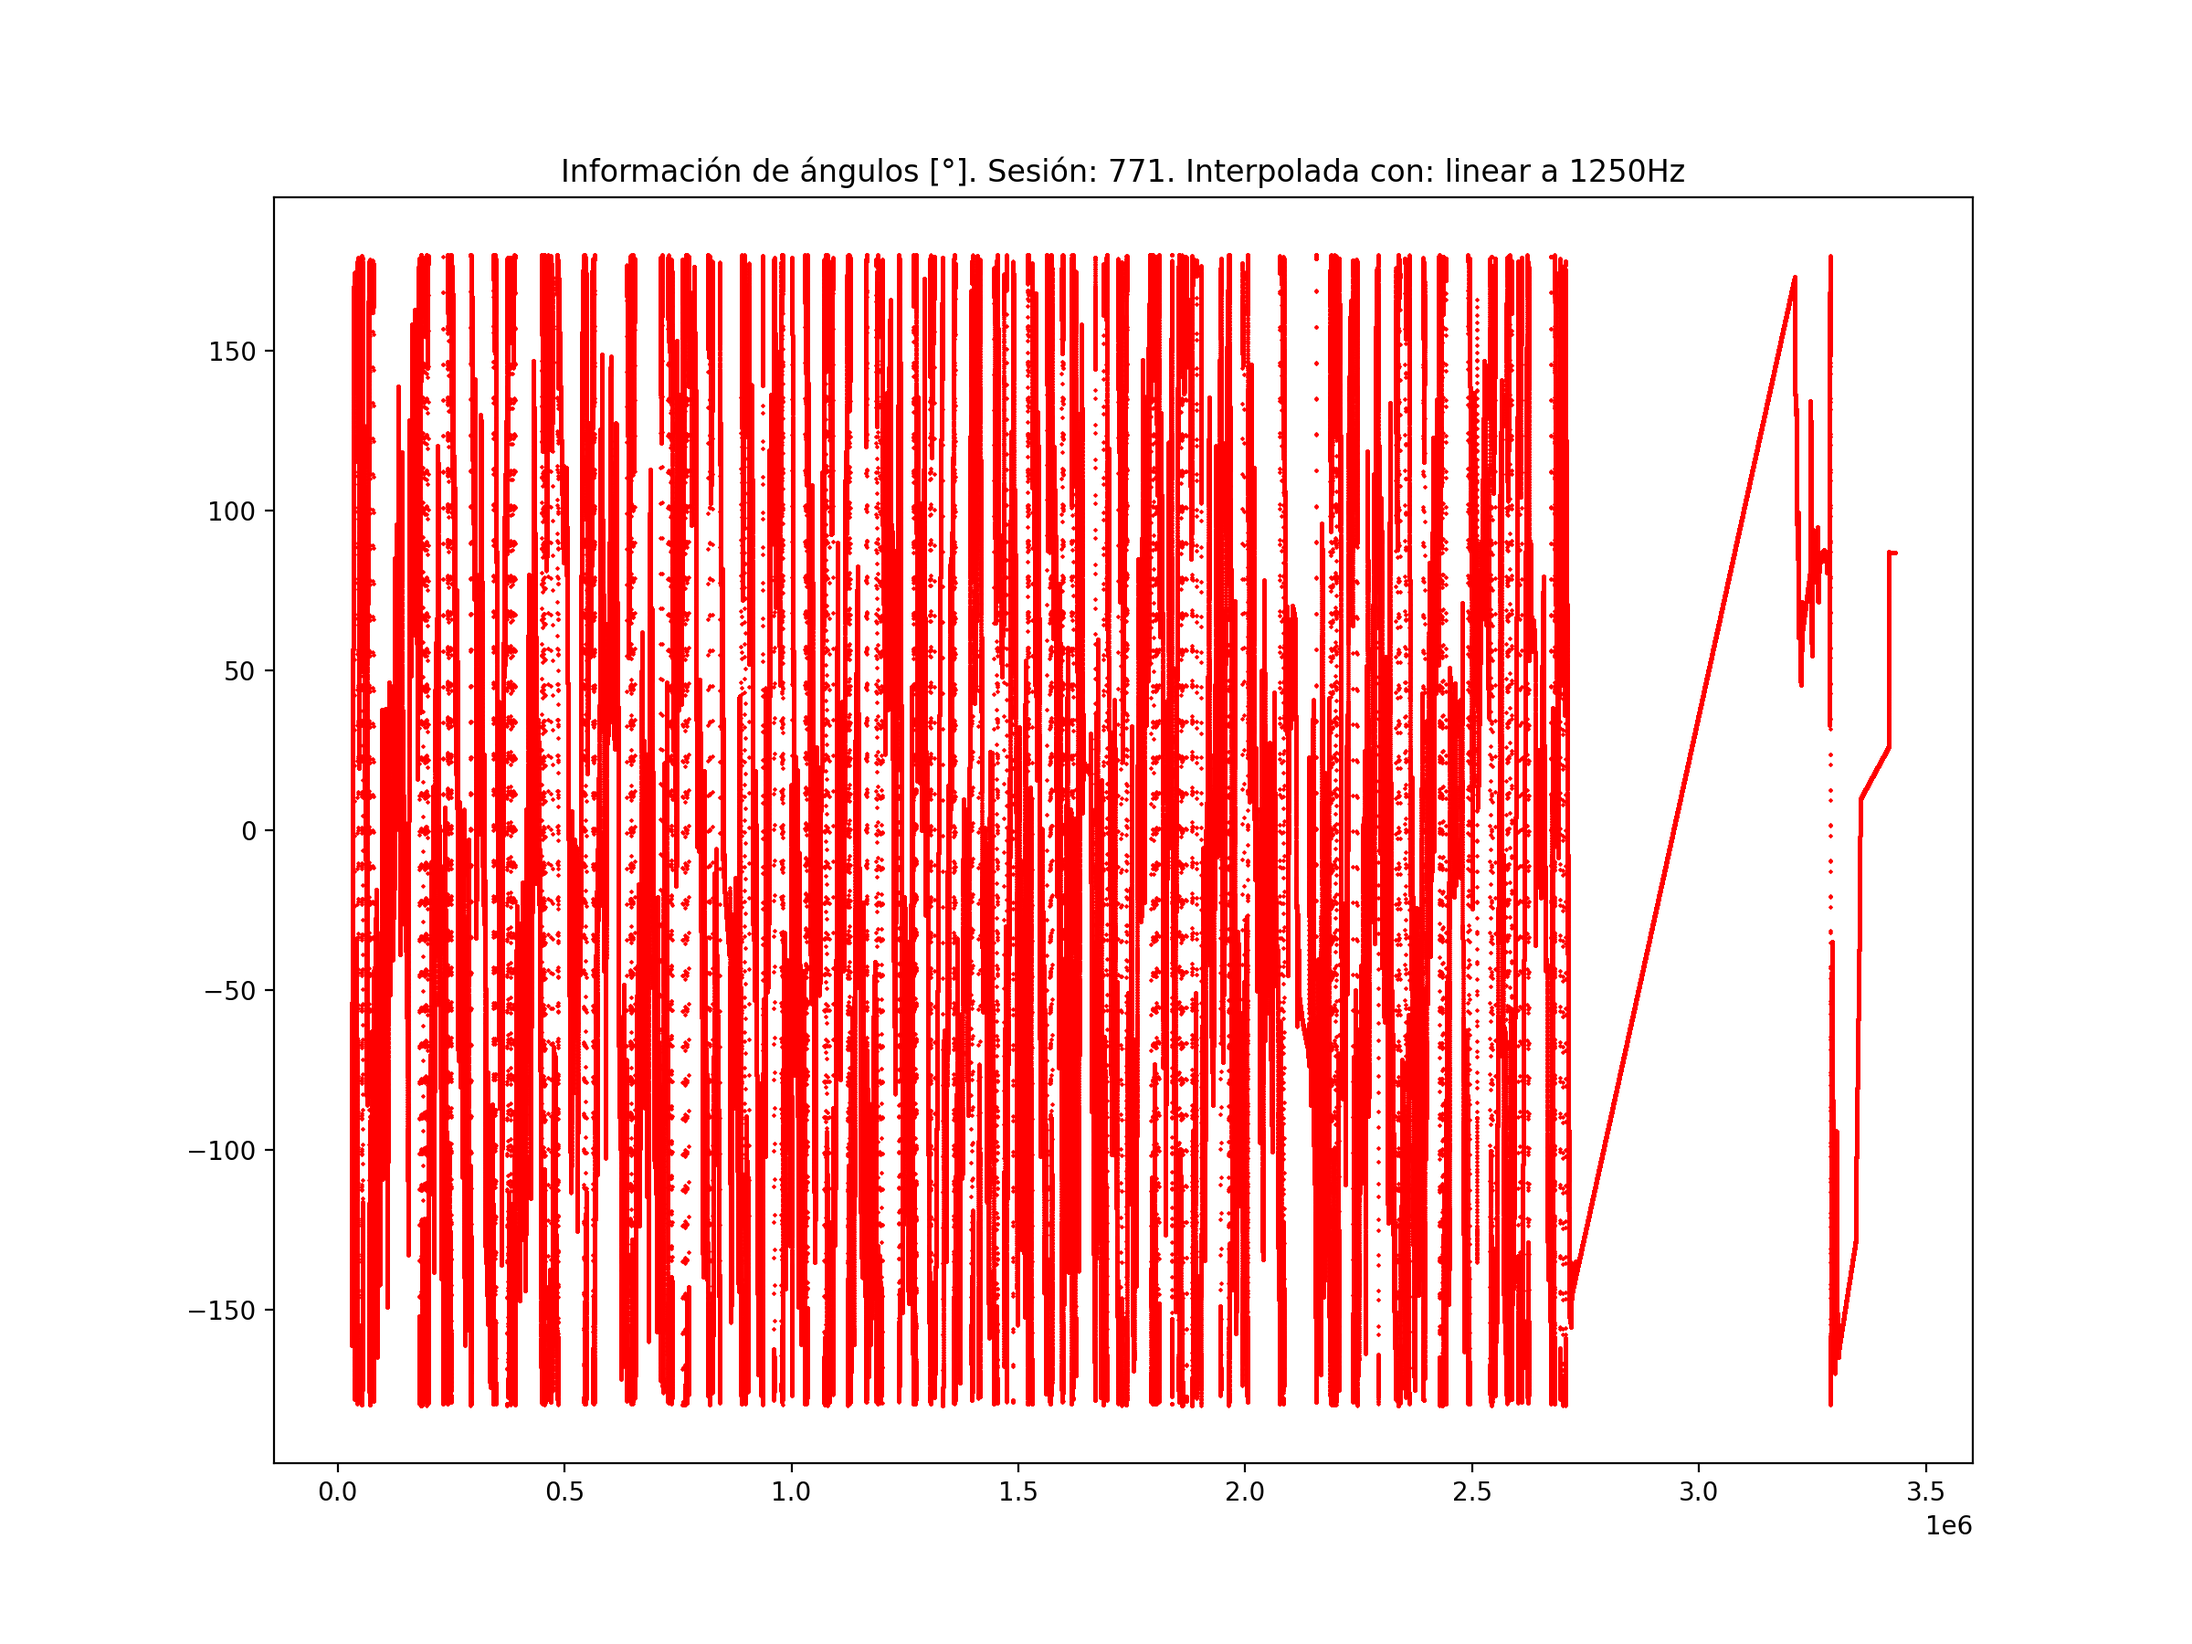
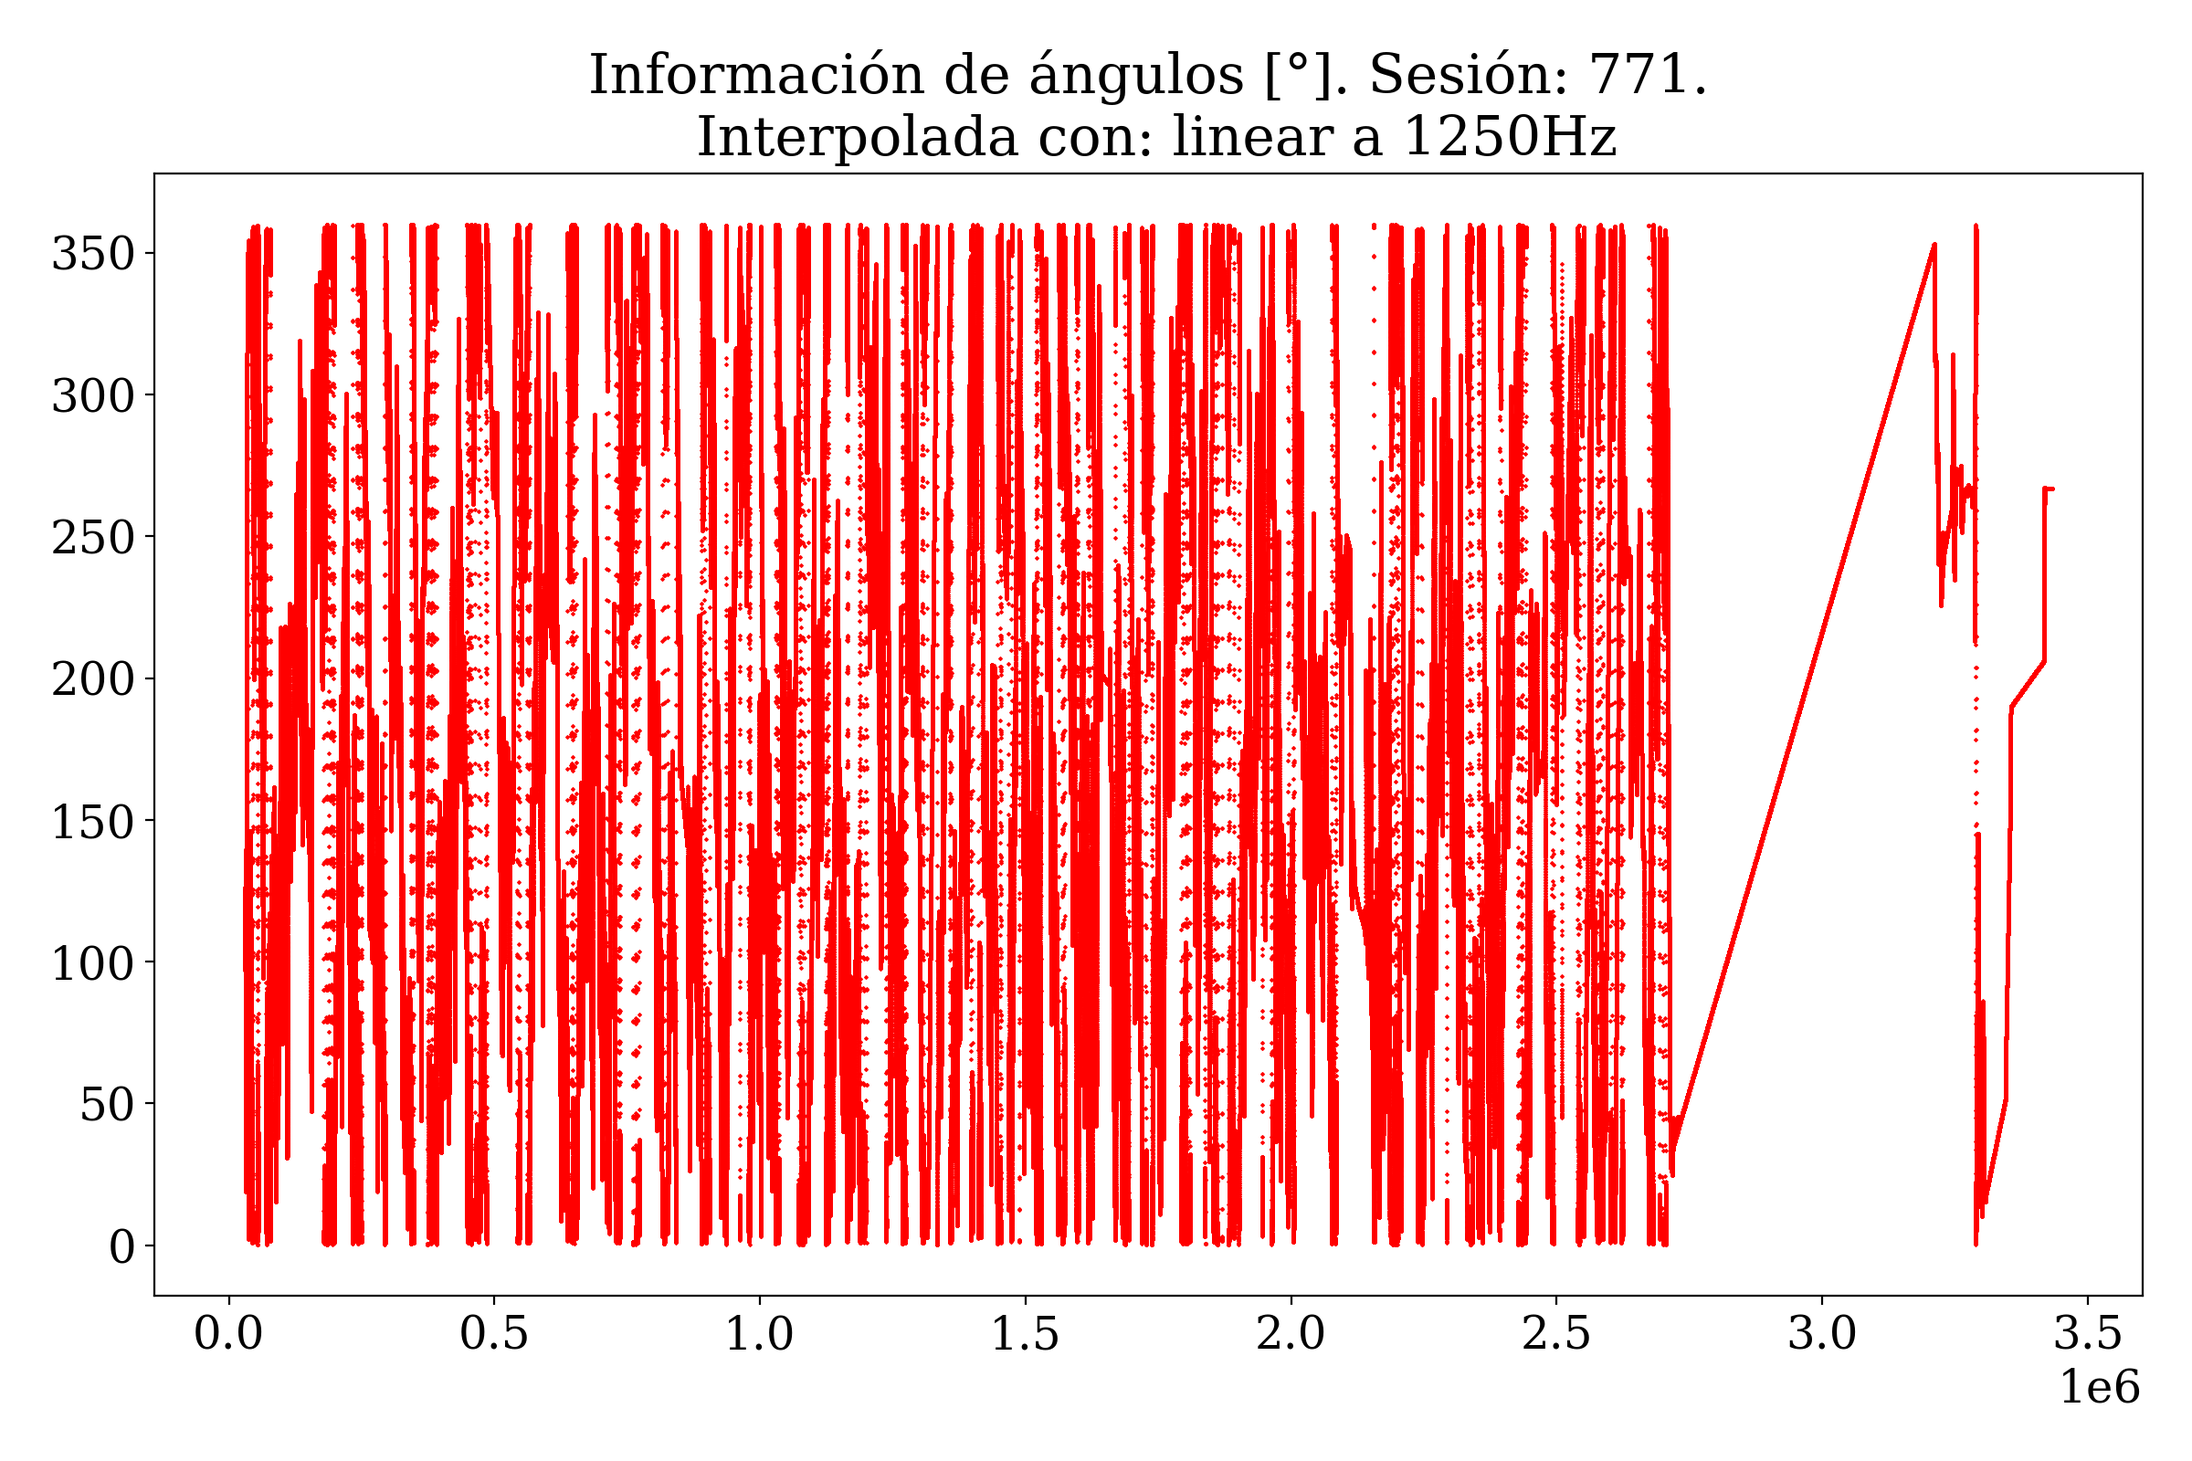
Add SLERP interpolation functions - Still buggy, its adding outliers at the beggining and at the end of angles data. - Round angles to create labels in add_labels method of preprocessing.py

diff --git a/Yomchi/preprocessing.py b/Yomchi/preprocessing.py
@@ -58,7 +58,7 @@ def load_angles_data(file=ANGLES_771, degrees=True):
     Loads the animal position data from a .whl file which contain 2 (x, y) pairs, one for each LED. If any position
     value equals '-1' then it's replaced with 'NaN' instead.
     @param file: Path to the file containing the animal LED's position information
-    @param degrees: If this flag is set, then the angles are returned in degrees, or radians otherwise.
+    @param degrees: If this flag is set, then the angles are returned in degrees from [0, 360[, or radians otherwise.
     @return angles: Array with the angles in radians extracted from the positions. The angles are given as
     float16 values calculated as arctan(y2 - y1 /x2 - x1). Unless the denominator is 0, in that case '0' is returned
     for that element.
@@ -75,6 +75,7 @@ def load_angles_data(file=ANGLES_771, degrees=True):
 
     if degrees:
         angles = np.degrees(angles)
+        angles += 180
 
     return angles
 
@@ -101,20 +102,73 @@ def pad_angles(angles_data, orig_rate, new_rate):
 
     return resampled_data
 
+def slerp(start, end, amount):
+    """
+    Spherical Linear Interpolation: This is equivalent to the linear interpolation, applied in a sphere.
+    It considers the 'start' and 'end' as angles in a circumference where the objective is to find the smallest arch.
+    param start: Start angle with values from 0 to 359
+    param end: Final angle with values from 0 to 359
+    param amount: Value between [0, 1] which determines how close the interpolated angle will be placed from the Start
+    angle (0) or from the Final angle (1), being 0.5 the middle.
+    return interpolated_angle: Interpolated angle between 'start' and 'end'.
+    """
+    shortest_angle = ((end-start) + 180) % 360 - 180
+    interpolated_angle = (start + shortest_angle * amount) % 360
+    return interpolated_angle
+
+def vectorized_slerp(angles_data):
+    """
+    Replace 'NaN' values between valid values (interpolation) in angular data with an interpolated value using
+    Spherical Linear Interpolation (SLERP).
+    param angles_data: Array with the angles data extracted from the animal positions.
+    return interpolated_angles: Array with the angles data interpolated using SLERP
+    """
+    start_angle = np.nan
+    no_nans = 0
+    first_nan_index = 0
+    interpolated_angles = angles_data
+
+    for i in range(1, len(interpolated_angles)):
+        val = interpolated_angles[i]
+
+        # If a NaN followed by another NaN
+        if np.isnan(interpolated_angles[i]) and not np.isnan(interpolated_angles[i-1]):
+            start_angle = interpolated_angles[i-1]
+            no_nans = 1
+            first_nan_index = i
+        # If a valid value followed by NaN
+        elif np.isnan(interpolated_angles[i]) and np.isnan(interpolated_angles[i - 1]):
+            no_nans += 1
+        # If angles[i] != NaN and angles[i-1] == NaN
+        elif not np.isnan(interpolated_angles[i]) and np.isnan(interpolated_angles[i - 1]):
+            if no_nans > 0 and not np.isnan(start_angle):
+                amount = 0
+                end_angle = interpolated_angles[i]
+                for j in range(first_nan_index, first_nan_index + no_nans):
+                    amount += 1/(no_nans + 1)
+                    interpolated_angles[j] = (start_angle + ((end_angle-start_angle) + 180) % 360 - 180 * amount) % 360
+                start_angle = np.nan
+
+    return interpolated_angles
+
 
 def interpolate_angles(angles_data, method="linear"):
     """
     Replace 'NaN' values in angular data with an interpolated value using a given method.
-    @param angles_data: Array with the angles data extracted from the animal positions and Padded with
+    @param angles_data: Array with the angles data extracted from the animal positions.
     @param method: Interpolation method to fill the gaps in the data. The optional methods available are the supported
     by pandas.DataFrame.interpolate function, which are: 'linear', 'quadratic', 'cubic', 'polynomial', among others.
-    @return interpolated_angles: Original data filled with zeros to match the new sampling rate.
+    @return interpolated_angles: Array with the angles data interpolated using the given method.
     """
     Env.print_text("Interpolate angles data using " + method + " method.")
 
-    angles_series = pd.Series(angles_data)
-    interpolated_angles = angles_series.interpolate(method)
-    interpolated_angles = interpolated_angles.to_numpy()
+    if method == "SLERP":
+        interpolated_angles = vectorized_slerp(angles_data)
+
+    else:
+        angles_series = pd.Series(angles_data)
+        interpolated_angles = angles_series.interpolate(method)
+        interpolated_angles = interpolated_angles.to_numpy()
 
     return interpolated_angles
 
@@ -138,16 +192,33 @@ def downsample_lfps(lfp_data, orig_rate, new_rate):
 
     return resampled_data
 
-def add_labels(lfps, angles):
+def add_labels(lfps, angles, start, offset):
     """
     Add an additional column to the LFP signals matrix with the angular data used as the labels.
     @param lfps: Matrix [n x numChannels] with the LFP signals used as the preliminary features of the data.
     @param angles: Array with the angles data extracted from the positions used as the labels of the data.
+    @param start: Angle in [0°, 360°[ used as first label.
+    @param offset: Offset in [1°, 360°[ between labels starting from 'start' angle.
     @return labeled_data: Matrix with the labeled data [n x lfps[numChannels], angles].
     """
     Env.print_text("Adding labels to the data by concatenating the [" + str(len(lfps)) + " x " + str(len(lfps[0])) +
                    "] LFP data matrix with the [" + str(len(angles)) + "] Angles vector.")
 
+    if (0 <= start < 360) and (1 <= offset < 360):
+        labels = np.arange(start, 360, offset)
+
+    for i in range(0, len(angles)):
+        if not np.isnan(angles[i]):
+            minval = np.inf
+            label = start
+            for tag in labels:
+                diff = abs(angles[i] - tag)
+                if diff < minval:
+                    minval = diff
+                    label = tag
+            angles[i] = label
+
+    angles = angles.astype(int)
     labeled_data = np.concatenate((lfps, angles), axis=1)
 
     return labeled_data

diff --git a/DataExploration/DataExploration.py b/DataExploration/DataExploration.py
@@ -40,7 +40,7 @@ DONT_PLOT = False
 session = {"Number": "771", "LFP Data": data.LFP_771, "Angles Data": data.ANGLES_771}  # or
 #session = {"Number": "765", "LFP Data": data.LFP_765, "Angles Data": data.ANGLES_765}
 
-interpolation = "linear"  # "linear" "quadratic" "cubic" "nearest"
+interpolation = "SLERP"  # "linear" "quadratic" "cubic" "nearest" "SLERP"
 sync_method = "Downsample LFPs"  # "Pad Angles" "Downsample LFPs"
 
 # Data Properties
@@ -86,6 +86,8 @@ if PLOT:
 Env.step("Importing angles data from session: " + session["Number"])
 
 angles_data = data.load_angles_data(session["Angles Data"])
+
+Env.print_text("Min angle: " + str(np.nanmin(angles_data)) + ", Max angle: " + str(np.nanmax(angles_data)))
 
 if PLOT:
     Env.print_text("Plotting Angles data [°] at " + str(data.POSITION_DATA_SAMPLING_RATE) + "Hz")
@@ -153,7 +155,7 @@ if PLOT:
     plt.plot(angles_data_interpolated[:], "xr")
     plt.title("Información de ángulos [°]. Sesión: " + session["Number"] + ".\n Interpolada con: " + interpolation
               + " a " + str(rate_used) + "Hz")
-    ui.store_figure(figname)
+    ui.store_figure(figname, True)
 
 ## <li> Step 5
 # <ul>
@@ -163,7 +165,7 @@ if PLOT:
 # </ul>
 Env.step("Label data by concatenating LFPs and interpolated Angles in a single 2D-array.")
 
-labeled_data = data.add_labels(lfp_data, np.expand_dims(angles_data_interpolated, axis=1))
+labeled_data = data.add_labels(lfp_data, np.expand_dims(angles_data_interpolated, axis=1), 45, 90)
 
 if PLOT:
     Env.print_text("Plotting LFP data from channels 0 and interpolated angles data at " + str(rate_used) + "Hz. [°]")
@@ -301,5 +303,5 @@ if PLOT:
 
 # </ol>
 ## <h2> Finish Test and Exit </h2>
-Env.finish_test()
-#Env.finish_test(session["Number"] + "_" + interpolation.title() + "_" + sync_method.replace(" ", ""))
+#Env.finish_test()
+Env.finish_test(session["Number"] + "_" + interpolation.title() + "_" + sync_method.replace(" ", ""))
